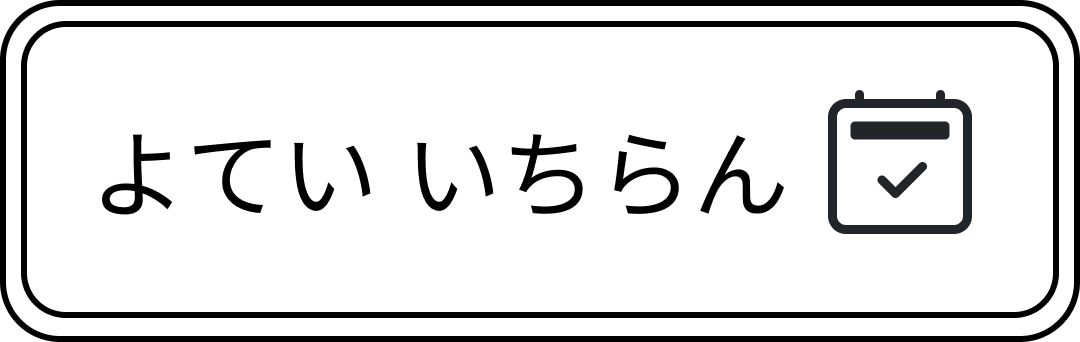
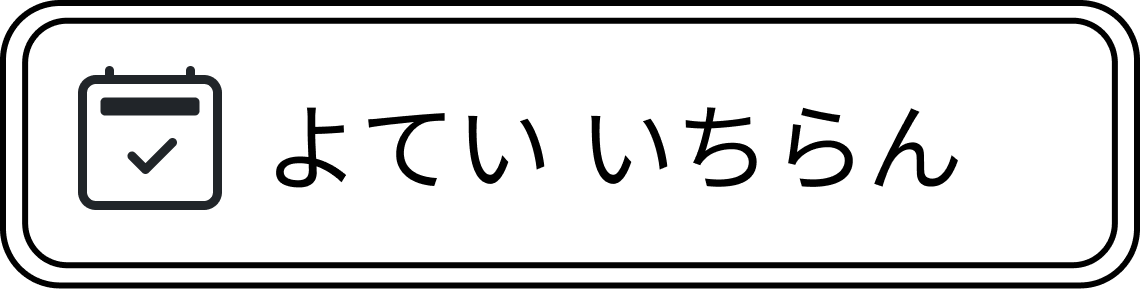
schedulehtmlの表示の作成、ヘッダーに子供アイコンの配置について、viewsの追記

Changed region(s): [[0.0611, 0.218, 0.9167, 0.7474], [0.0, 0.0, 1.0, 1.0]]

diff --git a/templates/kids_board/schedule_list.html b/templates/kids_board/schedule_list.html
@@ -1,0 +1,192 @@
+{% extends 'kids_board/base.html' %}
+
+{% load django_bootstrap5 %}
+{% load static %}
+
+{% block title %}Schedule List{% endblock %}
+
+{% block extra_css %}
+<style>
+    /*やることリスト作成欄のボタン表示（PC)の位置を調整*/
+    @media (min-width: 992px) {
+    .pc-only-padding {
+        padding: 0 0 0 60rem;
+        }
+    }
+    /*やることカードのスタイル*/
+    .prep-card {
+        width: clamp(150px, 21vw, 240px);
+        height: clamp(150px, 21vw, 240px);
+        box-sizing: border-box;
+        display: flex;
+        flex-direction: column;
+        justify-content: center;
+        align-items: center;
+        overflow: hidden;
+    }
+    /* Alpine.jsの表示・非表示制御 */
+    [x-cloak] { display: none !important; } 
+
+    /* 閲覧モードの無効ラジオを薄くしない */
+    .color-radio-readonly:disabled {
+        opacity: 1;
+    }
+
+</style>
+{% endblock %}
+
+{% block content %}
+<!--やることリスト表示欄-->
+<div class="m-3 p-4 p-md-2 rounded shadow" style= "background-color: var(--purple-100)">
+    <div class="d-flex flex-column flex-sm-row align-items-center justify-content-around">
+        <div class="d-flex flex-row align-items-center justify-content-center gap-0 gap-sm-2">
+            <p class="m-0 m-sm-3 p-2 fs-2 nowrap">よてい いちらん</p>
+            <img src="{% static 'images/button_icon/calendar4-week.png' %}" alt="カレンダーアイコン" class="" style="width: 45px; height: auto;">
+        </div>
+        <a href="{% url 'create_schedule' %}" class="btn btn-link p-0 m-0 ms-auto pc-only-padding" aria-label="やることリストを追加" style="background-color: transparent;">
+            <img src="{% static 'images/button_icon/btn_add_calendar.png' %}" alt="あたらしくつくる" class="mx-md-4 mx-0 my-4" style="width: 300px; height: auto;">
+        </a>
+    </div>
+    {% for schedule in schedules %}
+    <div class="rounded shadow m-2 m-lg-4 p-2 pe-lg-3 d-flex flex-column flex-lg-row align-items-center justify-content-around"
+        :style="editMode? 'background-color:#fff; border: 3px solid var(--cyan-400);' : 'background-color: #fff; border: 3px solid #fff;'"
+        x-data="{editMode: false}"><!--editModeがfalseは表示モード、trueは編集モード-->
+        <!--表示モード-->
+        <!--カード-->
+        <div class="prep-card rounded shadow border-0 m-3 p-2" style="background-color: #fff;" type="button" x-show.important="!editMode" x-cloak>
+            <div class="form-floating mb-3" style="width: 95%;">
+                <input type="text" class="form-control" id="floatingInput" value="{{ schedule.name }}" readonly>
+                <label for="floatingInput">なまえ</label>
+            </div>
+            <div class="form-floating mb-3" style="width: 95%;">
+                <input type="text" class="form-control" id="floatingInput" value="{{ schedule.start_time }}" readonly>
+                <label for="floatingInput">はじまり</label>
+            </div>
+            <div class="form-floating mb-3" style="width: 95%;">
+                <input type="text" class="form-control" id="floatingInput" value="{{ schedule.end_time }}" readonly>
+                <label for="floatingInput">おわり</label>
+            </div>
+        </div>
+        <!--入力欄（閲覧専用）-->
+        <div class="d-flex flex-column justify-content-center align-items-start gap-2 text" x-show.important="!editMode" x-cloak>
+            <p class="m-0">ようびを していする</p>
+            <div class="d-flex flex-wrap flex-row gap-1 align-items-start">
+                {% for day in schedule.weekdays %}
+                <div class="form-check" style="pointer-events: none;">
+                    <input class="form-check-input" type="checkbox" tabindex="-1" value="" id="checkDay{{ schedule.id }}_{{ forloop.counter }}" {% if day.checked %}checked{% endif %}>
+                    <label class="form-check-label" for="checkDay{{ schedule.id }}_{{ forloop.counter }}">{{ day.name }}</label>
+                </div>
+                {% endfor %}
+            </div>
+            {% for is_not_holiday in schedule.holiday %}
+            <div class="form-check form-switch " style="pointer-events: none;">
+                <input class="form-check-input" type="checkbox" role="switch" id="switchCheckHoliday{{ schedule.id }}_{{ forloop.counter }}" {% if is_not_holiday.checked %}checked{% endif %}>
+                <label class="form-check-label" for="switchCheckHoliday{{ schedule.id }}_{{ forloop.counter }}">へいじつだけに する（しゅくじつは ふくまない）</label>
+            </div>
+            {% endfor %}
+            {% for date in schedule.special_date %}
+            <div class="d-flex flex-row flex-wrap flex-md-nowrap gap-4 align-items-center justify-content-start form-check" style="pointer-events: none;">
+                <input class="form-check-input" type="checkbox" role="switch" tabindex="-1"
+                        id="switchCheckDate{{ schedule.id }}_{{ forloop.counter }}" 
+                        {% if date.checked %}checked{% endif %}>
+                <label class="form-check-label text-nowrap" 
+                        for="switchCheckDate{{ schedule.id }}_{{ forloop.counter }}">ひづけを していする</label>
+                <input type="text" readonly tabindex="-1" class="form-control p-0 text-center"
+                        value="{{ date.value|default:'' }}">
+            </div>
+            {% endfor %}
+            <p class="m-0">らべるの いろを えらぶ</p>
+            <div class="d-flex flex-wrap flex-row gap-4 align-items-start">
+                {% for color in schedule.colors %}
+                <div class="form-check" style="pointer-events: none;">
+                    <input class="form-check-input color-radio-readonly" type="radio" name="color{{ schedule.id }}" id="checkColor{{ schedule.id }}_{{ forloop.counter }}" {% if color.checked %}checked{% endif %} disabled>
+                    <div class="rounded-circle" style="width: 24px; height: 24px; background-color: {{ color.value }}; border: {% if color.checked %}1px solid var(--bs-primary){% else %}1px solid #ccc{% endif %};"></div>
+                </div>
+                {% endfor %}
+            </div>
+        </div>
+        <!-- 編集モード -->
+        <!-- カード -->
+        <div class="prep-card rounded shadow border-0 m-3 p-2" style="background-color: #fff;" type="button" x-show.important="editMode" x-cloak>
+            <div class="form-floating mb-3" style="width: 95%;">
+                <input type="text" class="form-control" id="floatingInput" value="{{ schedule.name }}" readonly>
+                <label for="floatingInput">なまえ</label>
+            </div>
+            <div class="form-floating mb-3" style="width: 95%;">
+                <input type="text" class="form-control" id="floatingInput" value="{{ schedule.start_time }}" readonly>
+                <label for="floatingInput">はじまり</label>
+            </div>
+            <div class="form-floating mb-3" style="width: 95%;">
+                <input type="text" class="form-control" id="floatingInput" value="{{ schedule.end_time }}" readonly>
+                <label for="floatingInput">おわり</label>
+            </div>
+        </div>
+        <!--入力欄-->
+        <div class="d-flex flex-column justify-content-center align-items-start gap-2" x-show.important="editMode" x-cloak>
+            <p class="m-0">ようびを していする</p>
+            <div class="d-flex flex-wrap flex-row gap-1 align-items-start">
+                {% for day in schedule.weekdays %}
+                <div class="form-check">
+                    <input class="form-check-input" type="checkbox" value="" id="checkDay{{ schedule.id }}_{{ forloop.counter }}" {% if day.checked %}checked{% endif %}>
+                    <label class="form-check-label" for="checkDay{{ schedule.id }}_{{ forloop.counter }}">{{ day.name }}</label>
+                </div>
+                {% endfor %}
+            </div>
+            {% for is_not_holiday in schedule.holiday %}
+            <div class="form-check form-switch ">
+                <input class="form-check-input" type="checkbox" role="switch" id="switchCheckHoliday{{ schedule.id }}_{{ forloop.counter }}" {% if is_not_holiday.checked %}checked{% endif %}>
+                <label class="form-check-label" for="switchCheckHoliday{{ schedule.id }}_{{ forloop.counter }}">へいじつだけに する（しゅくじつは ふくまない）</label>
+            </div>
+            {% endfor %}
+                {% for date in schedule.special_date %}
+                <div class="d-flex flex-row flex-wrap flex-md-nowrap gap-4 align-items-center justify-content-start form-check">
+                <input class="form-check-input" type="checkbox" role="switch"
+                       id="switchCheckDate{{ schedule.id }}_{{ forloop.counter }}"
+                       {% if date.checked %}checked{% endif %}>
+                <label class="form-check-label text-nowrap"
+                       for="switchCheckDate{{ schedule.id }}_{{ forloop.counter }}">ひづけを していする</label>
+                <input type="text" class="form-control js-datepicker p-0 text-center"
+                       value="{{ date.value|default:'' }}"
+                       placeholder="クリックで せんたく">
+                </div>
+                {% endfor %}
+            <p class="m-0">らべるの いろを えらぶ</p>
+            <div class="d-flex flex-wrap flex-row gap-4 align-items-start">
+                {% for color in schedule.colors %}
+                <div class="form-check">
+                    <input class="form-check-input" type="radio" name="color{{ schedule.id }}" id="checkColor{{ schedule.id }}_{{ forloop.counter }}" {% if color.checked %}checked{% endif %}>
+                    <div class="rounded-circle" style="width: 24px; height: 24px; background-color: {{ color.value }};"></div>
+                </div>
+                {% endfor %}
+            </div>
+        </div>
+        <!--ボタン(表示モード時)-->
+        <div class="d-flex flex-row justify-content-center align-items-end gap-4 align-self-end" x-show.important="!editMode" x-cloak>
+            <button type="button" class="btn btn-link p-0 m-0" @click="editMode = !editMode">
+                <img src="{% static 'images/button_icon/btn_pen_edit.png' %}" alt="やることリスト編集" class="mx-1 my-4" style="width: 100px; height: auto;">
+            </button>
+            <button type="button" class="btn btn-link p-0 m-0" href="#" x-show.important="!editMode" x-cloak>
+                <img src="{% static 'images/button_icon/btn_trash.png' %}" alt="やることリスト削除" class="mx-1 my-4" style="width: 100px; height: auto;">
+            </button>
+        </div>
+        <!--ボタン(編集モード時)-->
+        <!--保存ボタンは、POST成功後に表示モードへ切り替える形へ後日修正-->
+        <div class="d-flex flex-row justify-content-center align-items-end gap-4 align-self-end" x-show.important="editMode" x-cloak>
+            <button type="button" class="btn btn-link p-0 m-0" @click="editMode = false">
+                <img src="{% static 'images/button_icon/btn_save.png' %}" alt="やることリスト保存" class="mx-1 my-4" style="width: 100px; height: auto;">
+            </button>
+            <button type="button" class="btn btn-link p-0 m-0" href="#" x-show.important="editMode" x-cloak @click="editMode = false">
+                <img src="{% static 'images/button_icon/btn_cancel.png' %}" alt="やることリストキャンセル" class="mx-1 my-4" style="width: 100px; height: auto;">
+            </button>
+        </div>
+    </div>
+    {% empty %}
+    <div class="rounded shadow m-2 m-lg-4 p-4 pe-lg-5 text-center" style="background-color: #fff;">
+        <p class="m-0">やることが ありません。<br>あたらしく つくってみましょう！</p>
+    </div>
+    {% endfor %}
+    <!-- prep_items(表示用) -->
+</div>
+{% endblock %}
+{% block extra_js %}
+{% endblock %}

diff --git a/templates/kids_board/base.html b/templates/kids_board/base.html
@@ -266,11 +266,10 @@
             <div class="col-2 d-flex align-items-center justify-content-center">
                 <!-- ログイン中のみ表示 -->
                 {% if user.is_authenticated %}
-                <div class="nav-item d-flex flex-row align-items-center justify-content-center">
-                    {% if child.name %}
-                        <img class="button-image" src="{% static 'images/avatar_icon/12_lion.png' %}" alt="こどもアイコン">
-                        <p class="fs-4 fw-bold text-white text-nowrap">こども</p>
-                        {% comment %}<p>{{ child.name }}</p>{% endcomment %}
+                <div class="nav-item d-flex align-items-center justify-content-center d-none d-md-flex">
+                    {% if selected_child.child_name %}
+                    <img class="button-image" src="{% static 'images/avatar_icon/12_lion.png' %}" alt="こどもアイコン" style="width: 100px; height: auto; margin-right: 8px;">
+                    <p class="fs-4 fw-bold text-white text-nowrap">{{ selected_child.child_name }}</p>
                     {% endif %}
                 </div>
                 {% endif %}

diff --git a/templates/kids_board/schedule.html b/templates/kids_board/schedule.html
@@ -75,10 +75,6 @@
     justify-content: center;
     align-items: center;
     }
-    /**/
-    .btn:hover {
-    background-color: transparent;
-    }
 </style>
 {% endblock %}
 
@@ -315,9 +311,9 @@
                         </div>
                     </div>
                 </div>
-                <button type="button" class="btn btn-link p-0 m-0" href="#">
+                <a href="{% url 'schedule_list' %}" type="button" class="btn btn-link p-0 m-0" style="background-color: transparent;">
                     <img src="{% static 'images/button_icon/btn_list_schedule.png' %}" alt="よていリスト" class="mt-5" style="width: 300px; height: auto;">
-                </button>
+                </a>
             </div>
         </div>
     </div>

diff --git a/kids_board/views.py b/kids_board/views.py
@@ -211,13 +211,16 @@ class PrepItemsMornView(LoginRequiredMixin, ListView):
 
         return queryset.distinct()  # 重複するお支度アイテムがある場合は、distinct()で重複を排除
 
-    # 追加のコンテキストで今日の日付をテンプレートに渡す
+    # 追加のコンテキストで今日の日付とヘッダーの子供をテンプレートに渡す
     def get_context_data(self, **kwargs):
         context = super().get_context_data(**kwargs)
         today = date.today()
         WEEKDAY_JP = ["げつ", "か", "すい", "もく", "きん", "ど", "にち"]
+        child_id = self.kwargs.get("child_id")
+        selected_child = Child.objects.get(id=child_id)
         context["today"] = today
         context["weekday_jp"] = WEEKDAY_JP[today.weekday()]
+        context["selected_child"] = selected_child
         return context
 
 
@@ -255,10 +258,13 @@ class PrepItemsAftView(LoginRequiredMixin, ListView):
 
     def get_context_data(self, **kwargs):
         context = super().get_context_data(**kwargs)
+        child_id = self.kwargs.get("child_id")
         today = date.today()
         WEEKDAY_JP = ["げつ", "か", "すい", "もく", "きん", "ど", "にち"]
+        selected_child = Child.objects.get(id=child_id)
         context["today"] = today
         context["weekday_jp"] = WEEKDAY_JP[today.weekday()]
+        context["selected_child"] = selected_child
         return context
 
 
@@ -296,10 +302,13 @@ class PrepItemsNiteView(LoginRequiredMixin, ListView):
 
     def get_context_data(self, **kwargs):
         context = super().get_context_data(**kwargs)
+        child_id = self.kwargs.get("child_id")
         today = date.today()
         WEEKDAY_JP = ["げつ", "か", "すい", "もく", "きん", "ど", "にち"]
+        selected_child = Child.objects.get(id=child_id)
         context["today"] = today
         context["weekday_jp"] = WEEKDAY_JP[today.weekday()]
+        context["selected_child"] = selected_child
         return context
 
 
@@ -683,3 +692,81 @@ class NewItemsEditView(TemplateView):
 
 class ScheduleView(LoginRequiredMixin, TemplateView):
     template_name = "kids_board/schedule.html"
+
+
+class ScheduleListView(LoginRequiredMixin, TemplateView):
+    template_name = "kids_board/schedule_list.html"
+
+    def get_context_data(self, **kwargs):
+        context = super().get_context_data(**kwargs)
+
+        # scheduleの仮データ
+        context["schedules"] = [
+            {
+                "id": 1,
+                "name": "がっこう",
+                "start_time": "8:00",
+                "end_time": "15:00",
+                "weekdays": [
+                    {"name": "げつようび", "checked": True},
+                    {"name": "かようび", "checked": True},
+                    {"name": "すいようび", "checked": True},
+                    {"name": "もくようび", "checked": True},
+                    {"name": "きんようび", "checked": True},
+                    {"name": "どようび", "checked": True},
+                    {"name": "にちようび", "checked": True},
+                ],
+                "holiday": [{"name": "しゅくじつ", "checked": False}],
+                "special_date": [{"name": "ひづけしてい", "checked": False, "value": None}],
+                "colors": [
+                    {"name": "RED", "value": "var(--red-400)", "checked": True},
+                    {"name": "YELLOW", "value": "var(--yellow-300)", "checked": False},
+                    {"name": "GREEN", "value": "var(--green-400)", "checked": False},
+                    {"name": "EMERALD_GREEN", "value": "var(--teal-300)", "checked": False},
+                    {"name": "SKY_BLUE", "value": "var(--cyan-300)", "checked": False},
+                    {"name": "BLUE", "value": "var(--blue-400)", "checked": False},
+                    {"name": "PURPLE", "value": "var(--indigo-300)", "checked": False},
+                    {"name": "PINK", "value": "var(--pink-300)", "checked": False},
+                    {"name": "ORANGE", "value": "var(--orange-300)", "checked": False},
+                    {"name": "WHITE", "value": "var(--gray-100)", "checked": False},
+                ],
+            },
+            {
+                "id": 2,
+                "name": "ルーム",
+                "start_time": "15:00",
+                "end_time": "17:00",
+                "weekdays": [
+                    {"name": "げつようび", "checked": True},
+                    {"name": "かようび", "checked": False},
+                    {"name": "すいようび", "checked": True},
+                    {"name": "もくようび", "checked": False},
+                    {"name": "きんようび", "checked": True},
+                    {"name": "どようび", "checked": False},
+                    {"name": "にちようび", "checked": False},
+                ],
+                "holiday": [{"name": "しゅくじつ", "checked": False}],
+                "special_date": [{"name": "ひづけしてい", "checked": False, "value": None}],
+                "colors": [
+                    {"name": "RED", "value": "var(--red-400)", "checked": False},
+                    {"name": "YELLOW", "value": "var(--yellow-300)", "checked": False},
+                    {"name": "GREEN", "value": "var(--green-400)", "checked": False},
+                    {"name": "EMERALD_GREEN", "value": "var(--teal-300)", "checked": False},
+                    {"name": "SKY_BLUE", "value": "var(--cyan-300)", "checked": False},
+                    {"name": "BLUE", "value": "var(--blue-400)", "checked": False},
+                    {"name": "PURPLE", "value": "var(--indigo-300)", "checked": True},
+                    {"name": "PINK", "value": "var(--pink-300)", "checked": False},
+                    {"name": "ORANGE", "value": "var(--orange-300)", "checked": False},
+                    {"name": "WHITE", "value": "var(--gray-100)", "checked": False},
+                ],
+            },
+        ]
+        return context
+
+
+class CreateScheduleView(LoginRequiredMixin, TemplateView):
+    template_name = "kids_board/create_schedule.html"
+
+
+class SettingsView(LoginRequiredMixin, TemplateView):
+    template_name = "kids_board/settings.html"
